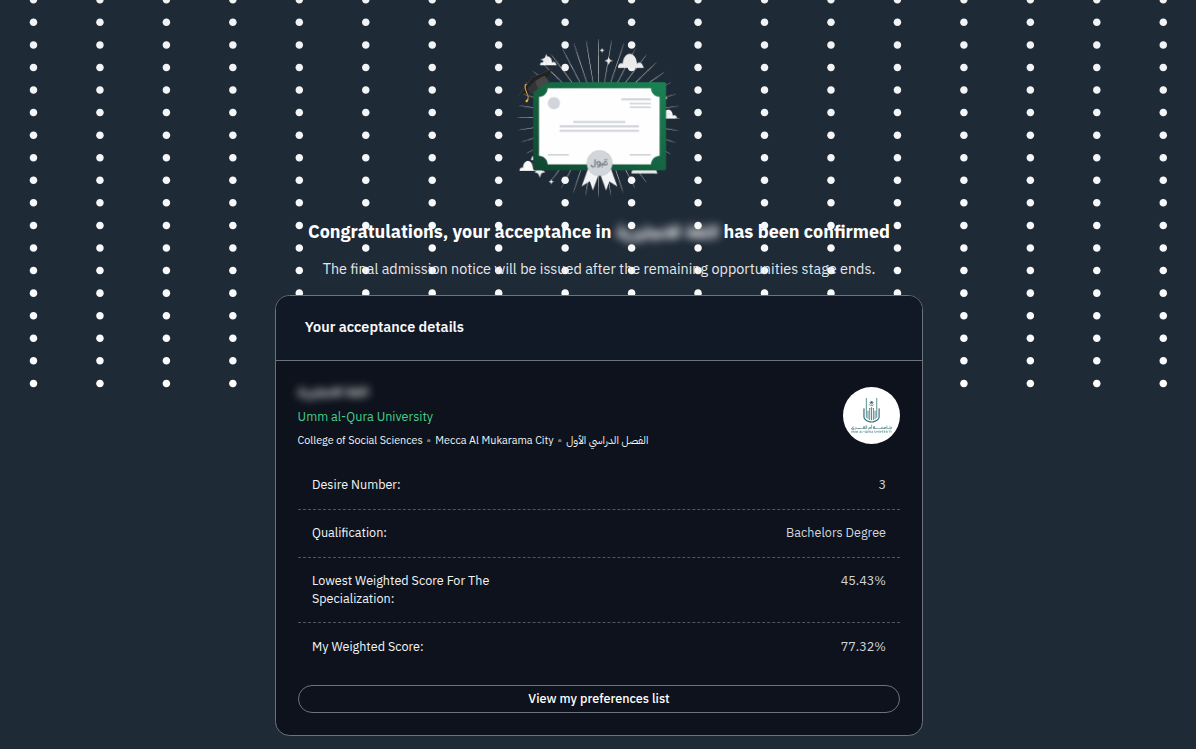
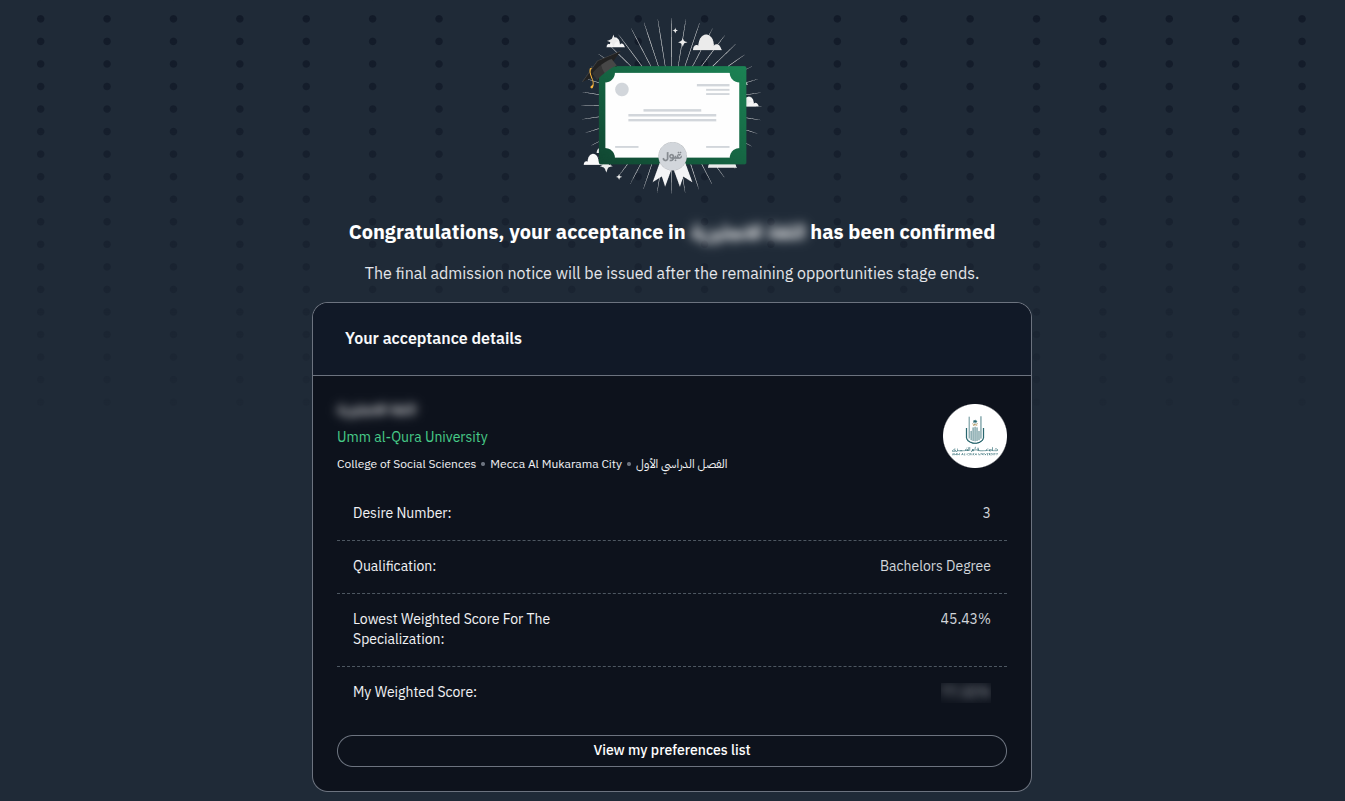
Add Elements of Eloquence notes and terminal alias post, fix UAP image, link reading list

Changed region(s): [[0.2166, 0.0307, 0.7734, 1.0], [0.4331, 0.9212, 0.5569, 0.9519], [0.7425, 0.3685, 0.7734, 0.3992]]

diff --git a/_posts/2026-07-22-the-elements-of-eloquence-notes.md b/_posts/2026-07-22-the-elements-of-eloquence-notes.md
@@ -1,0 +1,92 @@
+---
+title: The Elements of Eloquence — Reading Notes
+date: 2026-07-22
+description: Words I learned and phrases I liked from Mark Forsyth's The Elements of Eloquence.
+tags:
+  - rhetoric
+  - mark-forsyth
+  - writing
+  - vocabulary
+  - books
+categories:
+  - Reading
+hidden: true
+---
+
+## Page 15
+
+The figures of rhetoric are the deliberate and artful ways of using language. As Mark Forsyth puts it, they are "the techniques for making a single phrase striking and memorable... not by saying something different, but by saying something in a different way." They are the "formulas for producing great lines."
+
+## Words I Didn't Know
+
+### chap
+
+A chap called George Puttenham had a bestseller in 1589 with his book on them (that's about the year of Shakespeare's first play).
+
+**Definition:** **A Man or Boy:** Primarily used in British English and informal contexts, it means a fellow, guy, or friendly male.
+
+My Example: He is my most trusted chap
+
+I know it doesn't sound natural.
+
+but this is a better example:
+
+He's a good chap
+
+---
+
+### minuscule
+
+One minuscule part of this massive subject is the figures of rhetoric, which are the techniques for making a single phrase striking and memorable just by altering the wording.
+
+**Definition:** **Minuscule** (adjective) means extremely small, tiny, or negligible in size or amount.
+
+---
+
+### formulas
+
+They are the formulas for producing great lines.
+
+**Definition:** [to be added]
+
+---
+
+### enthymemes & baculums
+
+But it wasn't the enthymemes or the topics or even the baculums that the English liked.
+
+**Definition:** [to be added]
+
+---
+
+### diacope
+
+But most of his great and famous lines are simply examples of the ancient formulas. "I can smile, and murder while I smile" was not handed to Shakespeare by God. It's just an example of diacope.
+
+**Definition:** [to be added]
+
+---
+
+### Renaissance
+
+**Context from book:** [to be added]
+
+**Definition:** [to be added]
+
+---
+
+### solemn
+
+Solemn fools who believe that truth is more important than beauty.
+
+**Definition:** [to be added]
+
+---
+
+## Phrases I Liked
+
+> Anything to do with persuasion is rhetoric, right down to the argumentum ad baculum, which means threatening somebody with a stick until they agree with you.
+
+> So Shakespeare learnt and learnt and got better and better, and his lines became more and more striking and more and more memorable. But most of his great and famous lines are simply examples of the ancient formulas.
+
+> If somebody learns how to phrase things beautifully, they might be able to persuade you of something that isn't true. Stern people dislike rhetoric, and unfortunately it's usually stern people who are in charge.

diff --git a/_posts/2026-07-22-terminal-shortcut-for-blog-server.md b/_posts/2026-07-22-terminal-shortcut-for-blog-server.md
@@ -1,0 +1,70 @@
+---
+title: How I Made a Terminal Shortcut for My Blog Server
+date: 2026-07-22
+description: From typing three commands to typing one word. How aliases work and how I set one up for my Jekyll blog.
+tags:
+  - terminal
+  - blog
+  - jekyll
+categories:
+  - chirpy
+image:
+  path: /assets/img/terminal-alias-blog-server.jpg
+  alt: Terminal window with the nb alias command
+---
+
+Every time I wanted to preview my blog locally, I had to do three things:
+
+1. Open the terminal
+2. Type `cd ~/Desktop/Nebula0/nebula0.com` (navigate to the blog folder)
+3. Type `bundle exec jekyll serve` (start the server)
+
+Now I just type `nb`.
+
+## What `~/.bashrc` Is
+
+`~/.bashrc` is a hidden text file in your home folder. Breaking the name down:
+
+- `~` = your home folder (in my case, `/home/tariq`)
+- `.` at the start of `bashrc` = a hidden file (press `Ctrl+H` in your file manager to see hidden files)
+- `bashrc` = "bash run commands": a config file the terminal reads every time you open it
+
+You can view this file with any text editor. 
+
+Because the terminal reads this file on startup, anything you put in it runs automatically every time you open a new terminal window.
+
+## Typing an Alias vs Saving One
+
+You can define an alias two ways:
+
+| Method | How long it lasts |
+|--------|-------------------|
+| Type it directly in the terminal | Disappears when you close the window |
+| Save it to `~/.bashrc` | Stays forever |
+
+If I had just typed `alias nb='...'` in the terminal, the shortcut would only work in that one window and would be gone after I closed it. By adding the line to `~/.bashrc`, it's saved permanently.
+
+## What OpenCode Added
+
+I opened `~/.bashrc` and added this line to the bottom:
+
+```bash
+alias nb='cd ~/Desktop/Nebula0/nebula0.com && bundle exec jekyll serve'
+```
+
+Breaking it down:
+
+- `alias nb=` — creates a shortcut called `nb` (short for nebula)
+- `cd ~/Desktop/Nebula0/nebula0.com` — step 2 from above: navigate to the blog folder
+- `&&` — "if the first part worked, run the next." Chains commands together
+- `bundle exec jekyll serve` — step 3: start the local server
+
+## Making It Work
+
+Since I already had a terminal open when the file was edited, I ran `source ~/.bashrc` once. This tells the terminal: "re-read the file now" instead of waiting for me to open a new terminal.
+
+If you open a brand new terminal, the alias is already there & no need to run anything.
+
+## Usage
+
+From now on, I open the terminal, type `nb`, and the server starts. `Ctrl+C` stops it. Best time saver ever lol.

diff --git a/_tabs/media.md b/_tabs/media.md
@@ -17,7 +17,7 @@ If neither of those applies, then don't waste your time and read something else.
 
 ## Books
 
-- *The Elements of Eloquence* by Mark Forsyth *(In progress)*
+- *The Elements of Eloquence* by Mark Forsyth *([In progress](/posts/the-elements-of-eloquence-notes/))*
 - *Accents & Dialects for Stage and Screen* by Paul Meier *(In progress)*
 
 
